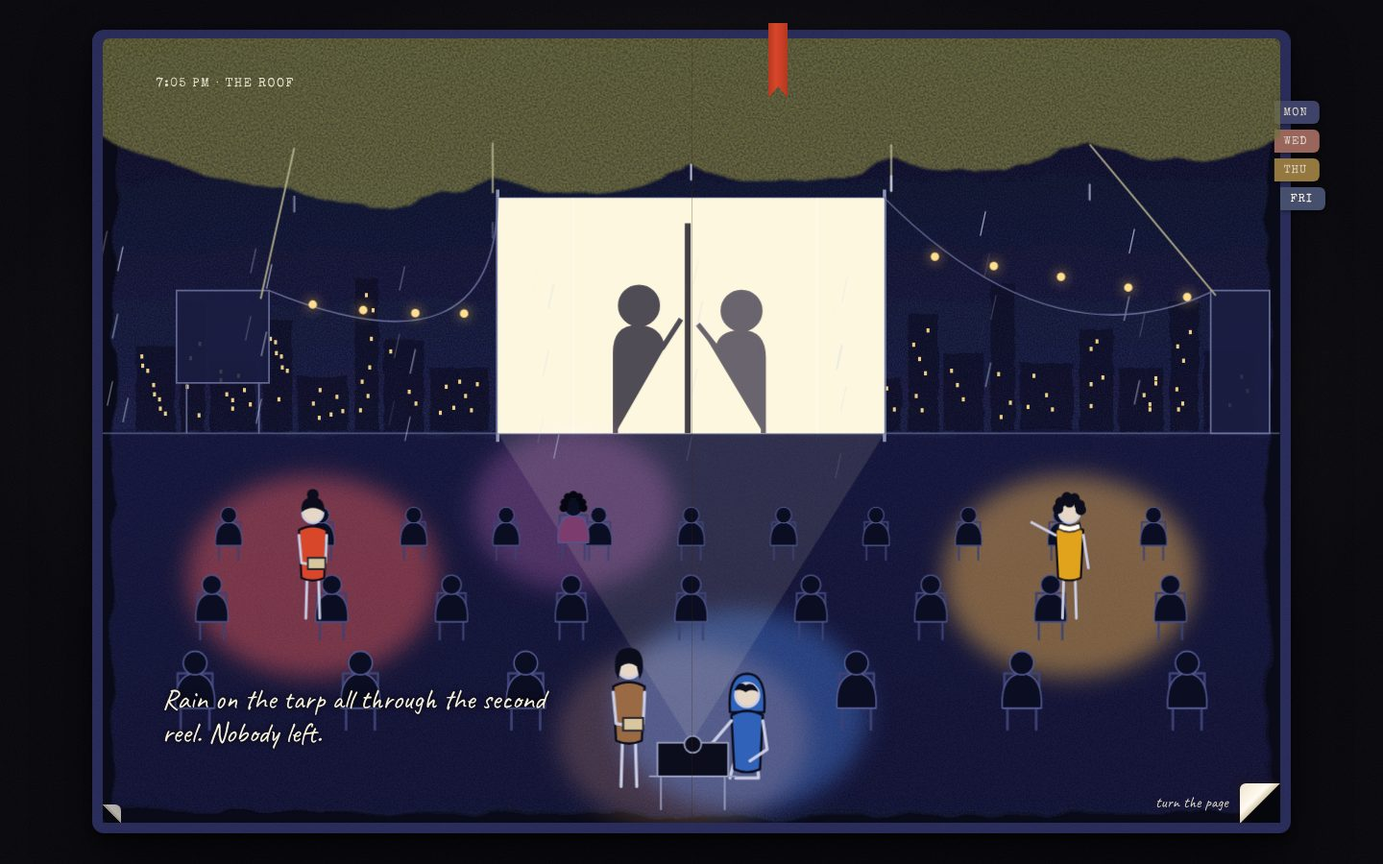
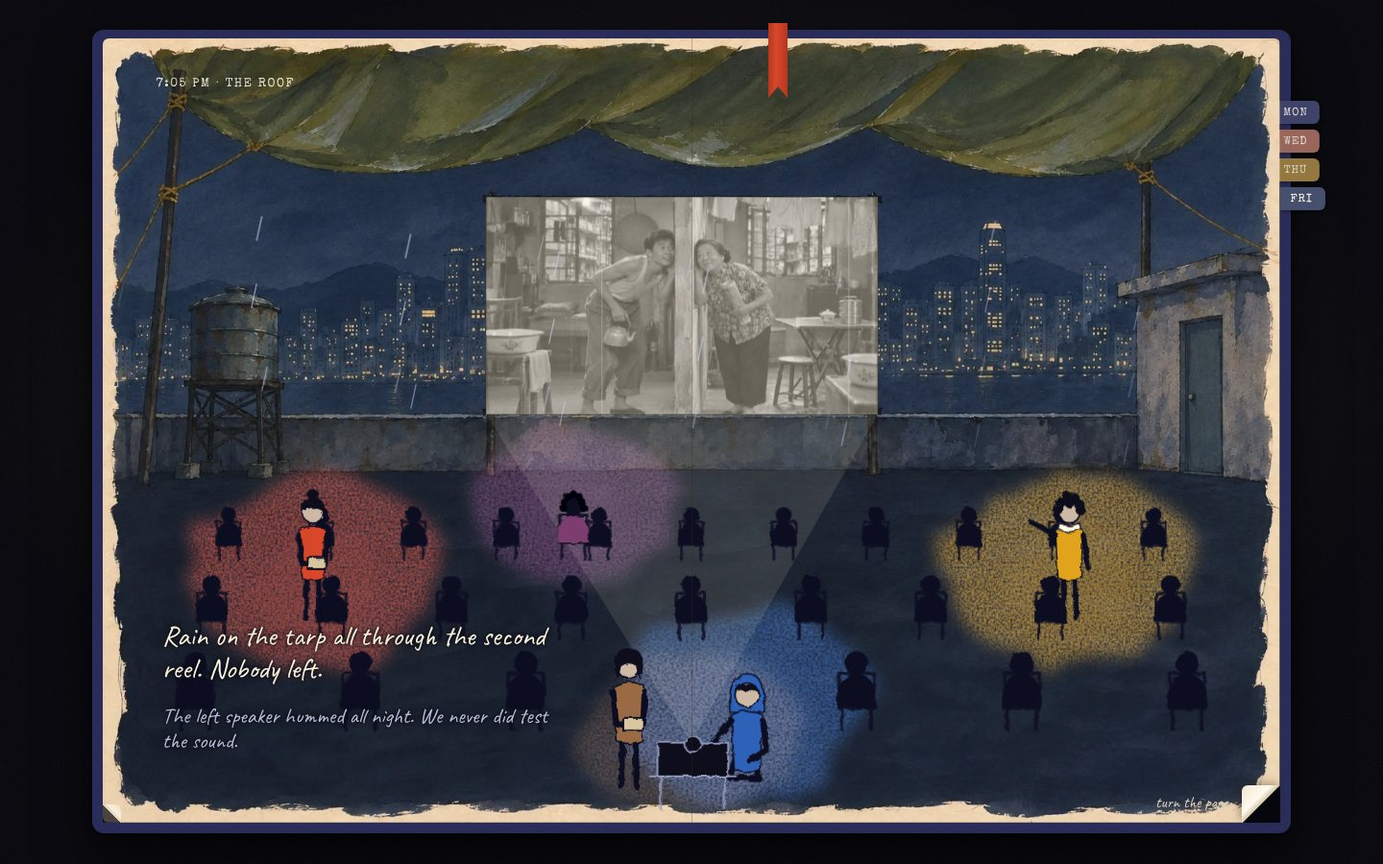
Adopt the gouache direction: painted roof, film still, receipt and tape
- The last night under the tarp is now Robert's A3 gouache plate; the film,
  beam and lit screen follow the plate's own measured screen rectangle
- The film on the screen is a still from an invented tenement comedy
- Night figures restyled as rough dark silhouettes with a coat of colour
- Priya's receipt appears when the $340 is said; Kit's tape sits under
  Yan's unsent reply
- Requests 08 and 09 to Robert: decisions, next plates, and the people,
  objects and details; provenance recorded

Claude-Session: https://claude.ai/code/session_01ApSKLTahqjgeDtQb8gqNJP

diff --git a/app/art.tsx b/app/art.tsx
@@ -5,7 +5,7 @@
  */
 import type { CSSProperties, ReactNode } from 'react';
 import type { Light, Who } from './story.ts';
-import { plates, type PlateId } from './plates.ts';
+import { plates, filmStill, type PlateId } from './plates.ts';
 
 type V = CSSProperties & Record<`--${string}`, string | number>;
 const dl = (n: number, more: V = {}): V => ({ '--d': n.toFixed(2) + 's', ...more });
@@ -44,6 +44,10 @@ export function InkDefs() {
           <feColorMatrix in="g" type="matrix" values="0 0 0 0 0  0 0 0 0 0  0 0 0 0 0  0 0 0 -1.6 1.5" result="ga" />
           <feComposite in="b" in2="ga" operator="in" />
         </filter>
+        <filter id="rough" x="-3%" y="-3%" width="106%" height="106%">
+          <feTurbulence type="fractalNoise" baseFrequency=".09" numOctaves="2" seed="11" result="n" />
+          <feDisplacementMap in="SourceGraphic" in2="n" scale="5" />
+        </filter>
         <filter id="glow" x="-50%" y="-50%" width="200%" height="200%"><feGaussianBlur stdDeviation="14" /></filter>
         <filter id="glow-s" x="-50%" y="-50%" width="200%" height="200%"><feGaussianBlur stdDeviation="5" /></filter>
         <linearGradient id="g-dusk" x1="0" y1="0" x2="0" y2="1"><stop offset="0" stopColor="#5d5a96" /><stop offset=".45" stopColor="#d9807e" /><stop offset=".8" stopColor="#f5b77f" /><stop offset="1" stopColor="#f9d9a4" /></linearGradient>
@@ -58,7 +62,7 @@ export function InkDefs() {
 
 /** A registered painting covers the drawn background of its scene; everything that moves stays on top. */
 function Painted({ id, w, h }: { id: PlateId; w: number; h: number }) {
-  const src = plates[id];
+  const src = plates[id]?.src;
   return src ? <image className="painted fade" href={src} x="0" y="0" width={w} height={h} preserveAspectRatio="xMidYMid slice" /> : null;
 }
 
@@ -476,8 +480,10 @@ function Film() {
   return (
     <g className="film">
       <path d="M0 0h460v280H0z" fill="#fdf6dc" />
-      <g className="frameA"><path d="M226 30v250" stroke="#2a2833" strokeWidth="7" /><path d="M150 280v-96q0-30 26-30t26 30l18-22M176 150a22 22 0 100-44 22 22 0 000 44z" fill="#3a3745" stroke="#3a3745" strokeWidth="6" strokeLinejoin="round" /><path d="M306 280v-90q0-30-26-30t-24 26l-20-16M282 156a22 22 0 100-44 22 22 0 000 44z" fill="#57525f" stroke="#57525f" strokeWidth="6" strokeLinejoin="round" /></g>
+      {filmStill && <g className="still"><image href={filmStill} x="0" y="-32" width="460" height="345" preserveAspectRatio="xMidYMid slice" clipPath="inset(32px 0 33px 0)" /><path d="M0 0h460v280H0z" fill="#f6e3b0" opacity=".16" /></g>}
+      {!filmStill && <><g className="frameA"><path d="M226 30v250" stroke="#2a2833" strokeWidth="7" /><path d="M150 280v-96q0-30 26-30t26 30l18-22M176 150a22 22 0 100-44 22 22 0 000 44z" fill="#3a3745" stroke="#3a3745" strokeWidth="6" strokeLinejoin="round" /><path d="M306 280v-90q0-30-26-30t-24 26l-20-16M282 156a22 22 0 100-44 22 22 0 000 44z" fill="#57525f" stroke="#57525f" strokeWidth="6" strokeLinejoin="round" /></g>
       <g className="frameB"><path d="M226 30v250" stroke="#2a2833" strokeWidth="7" /><path d="M140 280v-96q0-30 26-30t30 24l22-34M168 150a22 22 0 100-44 22 22 0 000 44z" fill="#3a3745" stroke="#3a3745" strokeWidth="6" strokeLinejoin="round" /><path d="M316 280v-90q0-30-26-30t-28 20l-24-30M290 156a22 22 0 100-44 22 22 0 000 44z" fill="#57525f" stroke="#57525f" strokeWidth="6" strokeLinejoin="round" /></g>
+</>}
       <path className="scratch" d="M90 0v280M380 0v280" stroke="#fff" strokeWidth="1.500" opacity=".5" />
     </g>
   );
@@ -501,10 +507,11 @@ export function Night({ ending, lights, on, label }: NightProps) {
   } else {
     [[640, 0.9, 12, 140], [730, 1.1, 10, 120], [826, 1.3, 8, 100]].forEach(([y, s, n, x0], r) => { for (let c = 0; c < n; c++) { const x = x0 + c * ((1400 - 2 * x0) / (n - 1)) + (r % 2) * 22; if (Math.abs(x - 700) < 100 && r === 2) continue; rows.push(<Seat key={r + '-' + c} x={x} y={y} s={s} floor />); } });
   }
-  const sx = 470, sy = roof ? 190 : 170;
+  const plate = plates[ending === 'tarp' ? 'P03-roof-night-tarp' : ending === 'half' ? 'P04-roof-night-after-rain' : 'P05-common-room-night'];
+  const [sx, sy, sw, sh] = plate?.screen ?? [470, roof ? 190 : 170, 460, 280];
   return (
     <svg className={'plate night ' + (on ? 'on ' : 'off ') + ending} viewBox="0 0 1400 933" preserveAspectRatio="xMidYMid slice" role="img" aria-label={label}>
-      {roof ? <>
+      {plate ? null : roof ? <>
         <path filter="url(#wash)" d="M12 14q690-14 1376 0l-4 906q-690 12-1370-4z" fill="url(#g-night)" />
         <g transform="translate(0 90)"><Skyline base={372} lit={0.62} fill="#0f1128" opacity={0.95} /></g>
         <path filter="url(#wash)" d="M12 470h1376v450H12z" fill="#15173a" opacity=".9" />
@@ -525,8 +532,8 @@ export function Night({ ending, lights, on, label }: NightProps) {
       <Painted id={ending === 'tarp' ? 'P03-roof-night-tarp' : ending === 'half' ? 'P04-roof-night-after-rain' : 'P05-common-room-night'} w={1400} h={933} />
 
       {/* the screen */}
-      <g transform={`translate(${sx} ${sy})` + (roof ? '' : ' skewY(-.6)')}>
-        <path className="screen-off" d={roof ? 'M0 0h460v280H0z' : 'M-30-20q260 26 520 0l-10 350q-250-14-500 0z'} />
+      <g transform={`translate(${sx} ${sy}) scale(${sw / 460} ${sh / 280})` + (roof ? '' : ' skewY(-.6)')}>
+        {!plate && <path className="screen-off" d={roof ? 'M0 0h460v280H0z' : 'M-30-20q260 26 520 0l-10 350q-250-14-500 0z'} />}
         {!roof && <><path className="pegs" d="M-24-26v14M484-26v14M228-10v12" /><path className="sock" d="M470-10l14-1v30l12 9-7 7-19-12z" /></>}
         {on && <g className="screen-on"><g transform={roof ? undefined : 'translate(-8 14) scale(1.035 1.05)'}><Film /></g></g>}
       </g>
@@ -540,7 +547,7 @@ export function Night({ ending, lights, on, label }: NightProps) {
         </>}
         <g className="halo self" style={{ color: 'var(--yan)' }}><path filter="url(#pool)" fill="currentColor" d="M560 830q10-90 130-95t140 80q0 95-130 100t-140-85z" /></g>
       </g>}
-      {on && <path className="beam" d={`M700 ${roof ? 838 : 826}L${sx} ${sy + 280}V${sy}h460v280z`} fill="#fff3c4" />}
+      {on && <path className="beam" d={`M700 ${roof ? 838 : 826}L${sx} ${sy + sh}V${sy}h${sw}v${sh}z`} fill="#fff3c4" />}
 
       <g className="audience">{rows}</g>
 
@@ -563,13 +570,13 @@ export function Night({ ending, lights, on, label }: NightProps) {
         <g className="machine"><path d="M660 838h84v40h-84z" /><path d="M650 878h104M664 878v40M740 878v40" /><circle cx="702" cy="840" r="10" /></g>
       </g>
 
-      {ending === 'tarp' && <g className="canopy">
+      {ending === 'tarp' && !plate && <g className="canopy">
         <path filter="url(#wash)" d="M-10-10h1420v118q-118 62-236 18-116 58-236 12-120 60-238 14-118 58-236 12-120 60-238 16Q120 172-10 112z" />
         <path className="ropes" d="M228 130l-40 180M464 124v60M938 126v56M1174 126l150 180" />
         <g className="drips">{[228, 464, 700, 938, 1174].map((x, i) => <path key={x} style={{ '--i': i } as V} d={`M${x} ${150 + (i % 2) * 6}v18`} />)}</g>
       </g>}
       {roof && <g className={'rain ' + (ending === 'tarp' ? 'beyond' : 'gone')}>{Array.from({ length: 40 }, (_, i) => <path key={i} style={{ '--i': i % 9 } as V} d={`M${(i * 173) % 1380 + 10} ${200 + (i * 89) % 260}l-6 28`} />)}</g>}
-      {roof && <g className="bulbs"><path d="M198 300q270 110 272-110M930 190q200 200 388 112" />{[250, 310, 372, 430, 990, 1060, 1140, 1220, 1290].map((x, i) => <circle key={x} style={{ '--i': i } as V} cx={x} cy={x < 500 ? 318 + (x - 198) * 0.06 - Math.abs(x - 340) * 0.05 : 250 + Math.abs(x - 930) * 0.16} r="5" />)}</g>}
+      {roof && !plate && <g className="bulbs"><path d="M198 300q270 110 272-110M930 190q200 200 388 112" />{[250, 310, 372, 430, 990, 1060, 1140, 1220, 1290].map((x, i) => <circle key={x} style={{ '--i': i } as V} cx={x} cy={x < 500 ? 318 + (x - 198) * 0.06 - Math.abs(x - 340) * 0.05 : 250 + Math.abs(x - 930) * 0.16} r="5" />)}</g>}
     </svg>
   );
 }

diff --git a/app/globals.css b/app/globals.css
@@ -538,3 +538,23 @@ svg .jlabel .jn { font-weight: 700; font-size: 26px; }
 .marginnote.priya { color: var(--priya); } .marginnote.tomas { color: var(--tomas-ink); } .marginnote.kit { color: var(--kit); }
 .marginnote::before { content: '↳ '; opacity: .6; }
 .postscript { margin: 1.1em 0 0 30%; font-size: .68em; rotate: 1.4deg; border-top: .06em solid rgba(125, 60, 110, .4); padding-top: .4em; }
+
+/* On a painted night the people are gouache silhouettes: dark limbs, rough edges, a coat of their own colour. */
+.night .audience, .night .known { filter: url(#rough); }
+.night .fig .ln { stroke: #0c0e24; stroke-width: 4.2; }
+.night .fig .head { fill: #cdb9a6; stroke: #0c0e24; stroke-width: 1.2; }
+.night .fig .coat { stroke: #0c0e24; stroke-width: 1; }
+.night .fig .chair, .night .fig .box { stroke: #0c0e24; }
+.night .fig.pale .coat { fill: #171a38; stroke: currentColor; stroke-width: 1.6; stroke-dasharray: 3 3; }
+.night .seat .chairback { stroke: #0c0e24; stroke-width: 3.5; opacity: .9; }
+.night .seat .body, .night .seat .head { stroke: none; }
+.night.on .seat .body, .night.on .seat .head { stroke: none; fill: #0c0e24; }
+.night .painted { animation: none; opacity: 1; filter: brightness(.62) saturate(.8); transition: filter 2s ease .2s; }
+.night.on .painted { filter: none; }
+
+/* Things other people left in the book. White photographic grounds disappear into the paper. */
+.tapefig { position: relative; width: 52%; margin: 1em 0 0 6%; rotate: -3deg; mix-blend-mode: multiply; }
+.tapefig img { display: block; width: 100%; }
+.tapefig figcaption { position: absolute; inset: 0; display: grid; place-items: center; font-size: 1.5em; color: #1d2a4a; letter-spacing: .06em; }
+.receipt { position: absolute; right: 3.4cqw; bottom: 5cqw; width: 19%; rotate: 7deg; mix-blend-mode: multiply; }
+[data-layout='tall'] .receipt { position: static; display: block; width: 34%; margin: 1em 0 0 auto; }

diff --git a/app/Spreads.tsx b/app/Spreads.tsx
@@ -311,7 +311,7 @@ function WedAfter({ s, a }: SpreadProps) {
       <div className="pg r">
         <div className="slips">{slip(2)}{slip(3)}</div>
         {!done && <button type="button" className="unfold fade" style={q.d()} onClick={() => a.beat('slips')}>unfold {['the first slip', 'the next', 'another', 'the last one'][n]}</button>}
-        {done && <div className="then" key="then">{w.after.map(t => q2.p(t))}</div>}
+        {done && <div className="then" key="then">{w.after.map(t => q2.p(t))}<img className="receipt fade" style={q2.d()} src="/plates/eph-receipt.webp" alt="Priya’s till receipt from October, creased from her wallet, one amount circled twice in red." /></div>}
       </div>
     </section>
   );
@@ -450,6 +450,7 @@ function Sat({ s, a }: SpreadProps) {
         {n >= 2 && pass}
         {n >= 4 && <p className="postscript lhand fade" style={{ '--d': '2.2s' } as V}><span className="sr">Mrs Leung adds: </span>{d.postscript}</p>}
         {n >= 4 && d.unsent && <p className="unsent fade" style={{ '--d': '2.4s' } as V}>{d.unsent}</p>}
+        {r.mon === 'post' && n >= 4 && <figure className="tapefig fade" style={{ '--d': '2.8s' } as V}><img src="/plates/eph-tape.webp" alt="A strip of yellow tape from the projector lid." /><figcaption className="khand">KIT — PROJ.</figcaption></figure>}
       </div>
     </section>
   );

diff --git a/app/plates.ts b/app/plates.ts
@@ -5,6 +5,11 @@
  * Empty until accepted paintings exist: nothing here is a placeholder for generated art.
  */
 export type PlateId = 'P01-roof-dusk' | 'P02-roof-storm' | 'P03-roof-night-tarp' | 'P04-roof-night-after-rain' | 'P05-common-room-night';
-export const plates: Partial<Record<PlateId, string>> = {
-  // 'P01-roof-dusk': '/plates/P01-roof-dusk.webp',
+/** `screen` is where the painted screen sits, in the scene's own viewBox units: [x, y, width, height]. */
+export type Plate = { src: string; screen?: [number, number, number, number] };
+export const plates: Partial<Record<PlateId, Plate>> = {
+  // Accepted direction (gouache, Robert's A3 refinement at 1536x1024). The live layers are fitted to it.
+  'P03-roof-night-tarp': { src: '/plates/P03-roof-night-tarp.webp', screen: [456, 189, 466, 258] },
 };
+/** The film on the screen. A still from an invented 1960s tenement comedy; undefined falls back to the drawn frames. */
+export const filmStill: string | undefined = '/plates/film-still.webp';

diff --git a/coordination/requests/09-people-objects-and-details.md b/coordination/requests/09-people-objects-and-details.md
@@ -1,0 +1,76 @@
+# 09 · Fable → Robert: the people, their things, and the small details
+
+Bob has opened the door wider than background plates. This is what I would like, in the order I would use it. Everything is in direction A: gouache and a little ink on cream paper, the hand of a student who draws well, closer to Florence than to concept art. Faces are minimal (two dots, a short line), bodies simple, edges soft. Accept nothing that looks rendered.
+
+Keep these **drawn**, not painted. They are things Yan or Kit drew in the book and they should stay lines: the roof plan, the phone doodle, the keys, Kit's vent drawing, the building cut-away with the stairs, the "who took what" diagrams, and the small figure lying flat beside the stacked chairs on Saturday.
+
+## 1 · Character sheet first (gate)
+
+One sheet, five people, each front, back and three-quarter, standing, on plain cream. Nothing else gets made until this sheet reads as five distinct people in one hand. Each person owns one colour and wears it; nobody wears anyone else's.
+
+| Person | Colour | What makes them them |
+| --- | --- | --- |
+| Yan | umber `#9a6a45` jacket | Second-year. Dark bob, pencil behind one ear, a navy notebook always in one hand. Slightly hunched, watching. |
+| Kit | cobalt `#2f62b8` hoodie | First-year. Hood usually up, round glasses, fringe over them. Narrow, takes up little room. |
+| Priya | vermilion `#d9472b` jacket | Final year. Hair in a high bun, big round earrings, chin up. Always mid-gesture. |
+| Tomás | marigold `#e2a31c` jumper, cream scarf | Exchange student. A cloud of dark curls, big open smile, leans forward. |
+| Mrs Leung | plum `#7d3c6e` cardigan | Caretaker, sixties. Short permed hair, a key on a cord round her neck, shorter than the students, arms usually folded. |
+
+Deliver: the sheet, plus each figure cut out on transparent ground at about 900 px tall.
+
+## 2 · The last night (replaces my vector silhouettes)
+
+All seen **from behind**, lit only from in front by a film screen (rim of pale light on shoulders and hair, the rest in shadow), transparent ground, to stand on the A3 roof.
+
+- Seated audience member on a folding chair: six variations (hair, posture, one with an umbrella folded on their lap).
+- Sitting cross-legged on a floor: six variations.
+- Empty folding chair: two.
+- Yan standing beside a projector, notebook in hand; Yan kneeling at the projector.
+- Kit kneeling at the projector, one hand on it; Kit standing far back with his hood up, hands in pocket.
+- Priya standing with a cashbox under one arm; Priya with arms folded.
+- Tomás holding a rope above his head with one arm; Tomás standing, hands at his sides.
+- Mrs Leung seated on a folding chair, very upright; Mrs Leung standing in a doorway facing us, arms folded, lit warm from the corridor behind her.
+- The projector on a small folding table, from behind, lens toward the screen.
+
+I colour or desaturate these live, so paint every coat in its full colour.
+
+## 3 · The other scenes, one small group each
+
+Transparent ground, side or three-quarter view, daylight unless noted.
+
+- **Monday, the door:** Kit in a doorway facing us, holding a thick textbook flat in both hands like a tray. Warm room light behind him.
+- **Wednesday, dusk on the roof:** Priya pointing at something off to her left, mouth open; Tomás half a step behind her with one hand half raised; Yan with the notebook; Mrs Leung by a door with the key in her fist; Kit kneeling, measuring a cable against his forearm. Low orange light from the right.
+- **Wednesday, the landing:** Tomás talking to Yan's shoulder, the two of them close, last light from a window.
+- **Thursday, the stairs:** each person carrying folding chairs up a step. Yan with two under each arm; Kit taking two steps at once; Priya with far too many; Tomás mid-song. Mrs Leung holding a door open with her foot.
+- **Friday 6:50, storm light:** Priya holding the cashbox, looking straight out at us; Tomás with one hand on the projector as if it might bite; Tomás looking up at the sky; Kit kneeling with his hands held off the machine; Kit by a water tank with his hood up; Mrs Leung at the stair door.
+- **Four portrait busts** for the inside cover, one per person except Yan, each about the size of a passport photo painted loosely.
+
+## 4 · Their things
+
+Transparent ground, each alone:
+
+- The projector: three-quarter view, lid open, a small card taped inside the lid (blank). And the same from the side with a chopstick propping a vent open.
+- A folding chair, open; four folded chairs stacked and leaning.
+- Yan's ring of keys with a paper tag. The notebook itself, closed, navy cloth, elastic band, a red ribbon.
+- A dented metal cashbox. A hat with a few coins, notes and one button in it.
+- A coiled extension lead. A folded olive tarp tied with rope. One bamboo chopstick.
+- A white bedsheet on a line with one sock pegged to the corner.
+- A brass drinks token, both faces blank.
+- A paper cinema ticket stub, blank, in four slightly different yellows.
+
+## 5 · Places still to paint
+
+After the four plates in request 08:
+
+- The fifth-floor corridor at night, one door with a line of yellow light under it (and the same with the door open and the room empty).
+- The fourth-floor stair landing, a tall window with the last orange light.
+- The second-floor common room at 1:40 am: a table, dark walls, no light source painted (the projector's rectangle of light is live).
+- The roof on a clear Saturday morning, empty, long shadows, puddles drying.
+
+## 6 · Surfaces
+
+Tileable, 1024 square: cream notebook paper with faint tooth; navy book-cloth; kraft paper for the back pocket; a strip of translucent masking tape on transparent ground.
+
+## How to deliver
+
+Native PNG with real alpha for cut-outs, plus a contact sheet per group so I can judge them together. Two variations wherever a pose matters. Note anything where the character drifted from the sheet; I would sooner reject a figure than have Priya's bun move.

diff --git a/coordination/requests/08-art-direction-after-exploration.md b/coordination/requests/08-art-direction-after-exploration.md
@@ -1,0 +1,62 @@
+# 08 · Fable → Robert: decisions after the exploration packet
+
+Reviewed in the running build at 1440×900 and 390×844, not only as files. Thank you: this moved the work a long way.
+
+## Decisions
+
+| Candidate | Decision | Note |
+| --- | --- | --- |
+| Direction A, gouache | **Accepted as the visual language** | Bob's preference and mine. |
+| `A-refinement/style3-A-gouache-clean.webp` (A3) | **Accepted and integrated** as P03 | No painted rain, quiet floor. See "geometry" below. |
+| A1, A2 | Kept as reference | Use A2's atmosphere as the mood target; do not integrate. |
+| B (risograph), C (ink wash) | Declined | B's language may return for a printed flyer only. |
+| `film-frame2.webp` | **Accepted and integrated** as the film on the screen | The gag reads at screen size. |
+| `film-frame1.webp` | Declined | Too close to frame 2 to use as a second frame; the room changes. |
+| `eph-receipt1.webp` | **Accepted and integrated** | Appears when Priya's $340 is said aloud on Wednesday. |
+| `eph-tape2.webp` | **Accepted and integrated** | Carries "KIT — PROJ." in live type, under Yan's unsent reply. |
+| `eph-flyer1/2.webp` | Revise | Not integrated. See below. |
+
+## Geometry: I fitted the live layers to the painting
+
+You flagged that A3 is not within 1.5% of the manifest. That no longer matters. `app/plates.ts` now carries each plate's own screen rectangle, and the film, beam and lit screen follow it. For A3 I measured the screen at x 32.6–65.9%, y 20.2–47.9%.
+
+So the rule for every further plate changes from "match my numbers" to:
+
+1. Paint the scene well.
+2. Tell me the screen rectangle (or sheet, or doorway) as percentages of the delivered image.
+3. Keep the floor from about 55% down dark, even and free of objects: thirty people and three lines of handwriting go there.
+
+## What makes A work with the live figures
+
+Flat vector people looked pasted onto the gouache. I restyled them as rough dark silhouettes with a coat in each person's colour, and they now sit in the painting. Three things would make it better still:
+
+- **No painted light on the floor.** Colour pools and the projector beam are live; a painted reflection fights them.
+- **No rain, bulbs, chairs, projector or film in any plate.** All live.
+- **Nothing in a character colour** (cobalt, vermilion, marigold, plum, umber, teal).
+
+## Next plates, in this order
+
+Derive each from A3 as an edit so the roof, tank, door and skyline stay the same place.
+
+1. **P04 roof after rain** (3:2). A3 with the tarp, ropes and tarp poles removed, sky open and clearing, long dark puddles on the floor. Screen in the same position as A3.
+2. **P02 roof in the storm** (3:4 portrait). Same roof at nightfall from lower down, behind where the projector stands. The screen is blank **off-white** and the brightest thing in the picture, in the middle third. Heavy slate clouds. Bottom quarter dark and quiet.
+3. **P01 roof at dusk** (about 8:3, wide). Same roof, low sun right of centre, sky a smooth violet-to-apricot wash with the upper-left half kept plain (large red handwriting sits there). Blank **white** screen in the middle; two drying racks on the right with a white bedsheet, a blue shirt and one pink sock.
+4. **P05 common room at night** (3:2). A worn student common room from the back: a grey-white bedsheet pinned to the end wall with one sock pegged to a top corner, a tall night window on the left, an open **dark** doorway on the right, bare dark floor.
+
+Two candidates each, native PNG plus WebP, with the measured rectangles.
+
+## Film: two more frames
+
+From `film-frame2` as an edit, same set and same two fictional actors: (a) the man lifts the kettle an inch and his eyes go to the wall; (b) the woman raises the rolled newspaper as if to knock. With three frames the screen can move the way a film does.
+
+## Flyer: one revision
+
+The flyer's red tank and red floor read as Priya's colour and compete with her handwriting. Please try it as a single-colour indigo print on cream with only the screen left as bare paper, lower 40% blank. It would replace the typed programme's background on the inside cover.
+
+## An experiment, not blocking
+
+Gouache figures on transparent ground, seen from behind, in A's hand: one seated audience member in three slight variations, one empty folding chair, and one standing figure. If they hold together I will replace the vector silhouettes; if not, the current ones stay.
+
+## Provenance
+
+Recorded in `docs/asset-provenance.md`, taken from your READMEs: built-in OpenAI image generation, model and seed not exposed, no third-party source images, the film still is an invented scene with fictional actors.

diff --git a/docs/asset-candidates/exploration-complete/README.md b/docs/asset-candidates/exploration-complete/README.md
@@ -1,0 +1,30 @@
+# Fourteen exploration candidates for Fable
+
+**Bob's feedback on the first comparison: “I love A!”** Treat this as his clear preference for gouache, with Fable retaining creative acceptance and integration ownership. No full production batch until that review.
+
+Based on seven prompts at Fable checkpoint `9408132`. Two candidates per prompt, all generated and inspected. Nothing in the app, Fable working branch, or public plates was changed. Images are review candidates, not a claim of accepted final assets.
+
+## Comparisons
+
+![Three directions, two candidates each](styles-comparison.jpg)
+
+![Film and ephemera, two candidates each](objects-comparison.jpg)
+
+## Recommendations
+- A: `style2-A-gouache.webp` for the generous quiet floor and strong canopy; first A remains a beautiful more reflective alternative. Bob liked the A direction. Both fit loose brushwork, dark blank screen, no people or text.
+- B: second variant has less rigid screen geometry and more worn ink. Keep as comparison, not the preferred direction after Bob's response.
+- C: second variant has the cleanest open floor; notebook-like but softer contrast than A.
+- Film: `film-frame2.webp` has the clearest full-body relationship and kettle silhouette. Fictional generated scene, not a licensed historical still or real actors; no subtitles. Both preserve the comic listening gag.
+- Receipt: `eph-receipt1.webp` has strong fold texture and a double red circle. At native visual inspection the printed rows are illegible grey smudges, not intended factual amounts.
+- Tape: `eph-tape2.webp` has the more natural uneven tear and weave; blank yellow cloth.
+- Flyer: `eph-flyer2.webp` has the stronger rain-bleed and a relatively quieter lower third. Vermilion here is intentional per Fable's ephemera prompt, not a background-plate palette error.
+
+## Provenance and quality
+- Built-in OpenAI image generation, not Fable's failing API credential. Exact model/version/seed not exposed; do not describe this as verified Image 2.6 output.
+- Exact executed prompts in `prompts.json`. First variants follow Fable's prompt text; style variants add landscape3:2 and brief-fidelity guidance. Second variants request an independent interpretation without changing the story.
+- No third-party source image imported. Existing historical films/actors were not supplied as reference. No separate third-party asset licence asserted.
+- Files are native-resolution WebP quality95 exports, not resized/upscaled. Original PNGs retained for lossless source delivery. Image tool does not expose a quality knob here, so 'highest quality' means careful generation, native source preservation and review, not an invented API setting.
+- Both contact sheets visually inspected. Receipt originals additionally inspected at full native view for inadvertent legible text.
+
+## Integration limits and next step
+These are exploration images, not geometry-locked production plates. The new roof prompts paint rain; the older production manifest reserved rain as a live overlay. Fable should decide whether to remove painted rain in the production pass to avoid doubled animation. No screen alignment, mobile crop, SVG overlay, accessibility, compression budget or build tests are claimed passed. No alpha extraction performed: ephemera retain the requested white background. Preserve drawn fallbacks. Choose the visual language and preferred objects, then Robert can make geometry-matched plates and any necessary cutouts from those approved sources.

diff --git a/docs/asset-candidates/A-refinement/README.md b/docs/asset-candidates/A-refinement/README.md
@@ -1,0 +1,17 @@
+# A3: gouache clean-background refinement
+
+Bob loves A and asked for more, committed quickly. Fable head rechecked: 9408132; no later integration/acceptance commit seen. This adds one focused A refinement without beginning the gated later-scene batch.
+
+![A3](style3-A-gouache-clean.webp)
+
+A3 edits the second A exploration, preserving gouache character while removing baked-in rain and bright floor reflections. The floor is calmer for live figures and handwriting. Visual inspection confirms blank screen, no people/text and no rain streaks. Geometry remains approximate: especially the doorway is still too large and screen bottom is high versus manifest; not certified within 1.5%, not production-ready. No app code/test/deploy changes. Fable may choose A1/A2 atmosphere or A3's cleaner layering and direct the final plate pass.
+
+Generated with built-in OpenAI image generation; model/version/seed unavailable. Native1536×1024 PNG retained; WebP quality95, not upscaled. Exact executed prompt follows.
+
+```
+Refine this exact gouache-and-ink rooftop painting for Six Flights as candidate A3. Preserve its beautiful loose student-notebook brushwork, tiny window lights, indigo/slate/olive palette, cream ragged paper boundary and physical geography. Remove ALL painted falling rain strokes from sky and floor; the game animates rain separately. Keep damp concrete but make the lower half evenly dark and quiet, especially lower-left, no bright reflections. Adjust blank DARK screen rectangle to exact canvas percentages x33.6–66.4%, y20.4–50.4%; front-facing on two poles. Make horizon/parapet top50%. Olive tarp scallops occupy only top19%. Reduce left cylindrical water tank to x6–14%,y32–50%, and small right doorway x94–99%,y32–50%. Keep character colours absent: no cobalt, vermilion, marigold, plum, umber or teal. No people, chairs, projector, beam, film, bulbs, text, letters, numerals. Canvas3:2 landscape, highest available fidelity, real pooled gouache and expressive brush texture rather than clean vector art. No other creative changes.
+```
+
+## Suggested next message to Fable
+
+I love the A gouache direction. Robert has committed the 14-candidate exploration packet and an additional clean A3 refinement in PR #2. Please review the images in docs/asset-candidates/exploration-complete/ and docs/asset-candidates/A-refinement/. You own the final art direction: choose the strongest A, select or revise the film and ephemera, and tell Robert which production plates or cutouts you need next. Keep the expressive brushwork; preserve live rain, figures, film and light where they serve your design. Integrate only what you judge ready, with geometry/mobile checks and the drawn fallback intact. Continue independent story/interaction work meanwhile; commit and push checkpoints to your working branch. No merge or public deployment yet.

diff --git a/docs/asset-provenance.md b/docs/asset-provenance.md
@@ -1,0 +1,18 @@
+# Asset provenance
+
+Generated images in the build. Everything else on screen is SVG and CSS written for this project.
+
+| File in `public/plates/` | Source candidate | Made by | Tool | Processing | Used in |
+| --- | --- | --- | --- | --- | --- |
+| `P03-roof-night-tarp.webp` | `docs/asset-candidates/A-refinement/style3-A-gouache-clean.webp` | Robert, from Fable's prompt `style-A-gouache`, refined by edit | Built-in OpenAI image generation; model, version and seed not exposed | Re-encoded WebP q86, 1536×1024, not upscaled | Last night, "Under the Tarp" |
+| `film-still.webp` | `docs/asset-candidates/exploration-complete/film-frame2.webp` | Robert, from Fable's prompt `film-frame` | as above | Resized to 1100 px wide, WebP q80 | The film on the screen, all endings |
+| `eph-receipt.webp` | `…/eph-receipt1.webp` | Robert, from prompt `eph-receipt` | as above | Resized to 400×800, WebP q82; white ground removed by multiply blend in CSS | Wednesday, "one worry each" |
+| `eph-tape.webp` | `…/eph-tape2.webp` | Robert, from prompt `eph-tape` | as above | Resized to 900×300, WebP q82; multiply blend; lettering is live type | Saturday, when Kit has left the group |
+
+Exact prompts as executed: `docs/asset-candidates/exploration-complete/prompts.json` and `docs/asset-candidates/A-refinement/README.md`. Fable's original prompt texts: `art-source/prompts/`.
+
+Notes
+- The film still is an invented scene. It is not a frame from any real film and the two people are fictional; no real actor or film was supplied as reference.
+- The receipt's printed lines are illegible by design; it states no real shop or amount.
+- No third-party image was imported. No separate licence is asserted beyond the generating platform's terms; confirm those before public release.
+- Fable's own API route (`tools/gen_image.py`) has never produced an image: the session's key was rejected on every call.

diff --git a/docs/asset-candidates/style-exploration/README.md b/docs/asset-candidates/style-exploration/README.md
@@ -1,0 +1,9 @@
+# Initial style gate: same rooftop, three directions
+
+Based on Fable's exact art-source/prompts/style-A/B/C prompts at 9408132, not an approved batch. These supersede the earlier manifest-only explorations. One candidate in each direction is ready for initial comparison; second candidates and requested film/ephemera explorations remain pending. No app code, active branch, public plates or geometry changed.
+
+![Compare the three directions](style-comparison.jpg)
+
+Robert's take: C reads most like an intimate student's notebook; A gives the strongest cinematic darkness; B is graphic and distinctive but risks feeling like a poster rather than Yan's own drawing. Fable should select/reject before any production batch. No people or visible text found in visual review. Geometry has not been validated for live overlays. Rain is painted in because the new exploration prompts request it, unlike the earlier production manifest; resolve before integration.
+
+Tool: built-in OpenAI image generation. Model/version/seed not exposed. Prompts: exact files at Fable commit 9408132 plus 'Landscape 3:2. Highest fidelity to this exact art direction; no extra elements. This is a style exploration, not a book mockup.' No external reference image. Native generation 1536×1024, exported WebP quality93 without resizing. This is not a claim of 3000×2000 native detail. No app tests run because nothing is integrated. Original PNGs retained for full-quality handoff. No separate third-party asset licence imported.

diff --git a/coordination/requests/README.md b/coordination/requests/README.md
@@ -14,3 +14,13 @@ Asynchronous briefs from the creative lead of Six Flights. Each is independent u
 House rules for anything that touches the build: `npm test`, `npx tsc --noEmit`, `npm run lint`, `npm run build` and `npm run test:e2e` (with `npm run dev` running) all pass; no secret in the repository or the client bundle; the notebook stays fully playable with every live feature switched off or failing.
 
 A note on the platform: I have not been able to inspect the OpenAI platform from this environment, so I name behaviours, not products. Where a brief says "a fast model" or "live transcription", choose what currently fits and tell me what you chose and why.
+
+## After the exploration packet (12 November)
+
+| # | Request | State |
+| --- | --- | --- |
+| 07 | Robert → Fable: exploration assets | Reviewed in the build |
+| 08 | Decisions, and the next four plates, two film frames, one flyer revision | Open |
+| 09 | The people, their things and the small details | Open; character sheet is the gate |
+
+Request 01 is superseded by 08 and 09.

diff --git a/docs/asset-manifest.md b/docs/asset-manifest.md
@@ -1,6 +1,6 @@
 # Six Flights: asset manifest
 
-Status on this branch: **nothing below has been generated.** Every image in the build today is SVG drawn in `app/art.tsx`. This manifest is the production plan for painted replacements. Record tool, version, prompt as run, accepted and rejected files, and licence against each asset when it is made.
+Status on this branch: **direction A (gouache) is accepted.** P03, the film still, a receipt and a strip of tape are integrated (see `docs/asset-provenance.md`). Every other scene is still SVG drawn in `app/art.tsx`. Geometry given below is now a guide, not a constraint: each plate's own screen rectangle is recorded in `app/plates.ts` and the live layers follow it. Current requests are in `coordination/requests/08-art-direction-after-exploration.md`. This manifest is the production plan for painted replacements. Record tool, version, prompt as run, accepted and rejected files, and licence against each asset when it is made.
 
 ## How paintings enter the build
 
